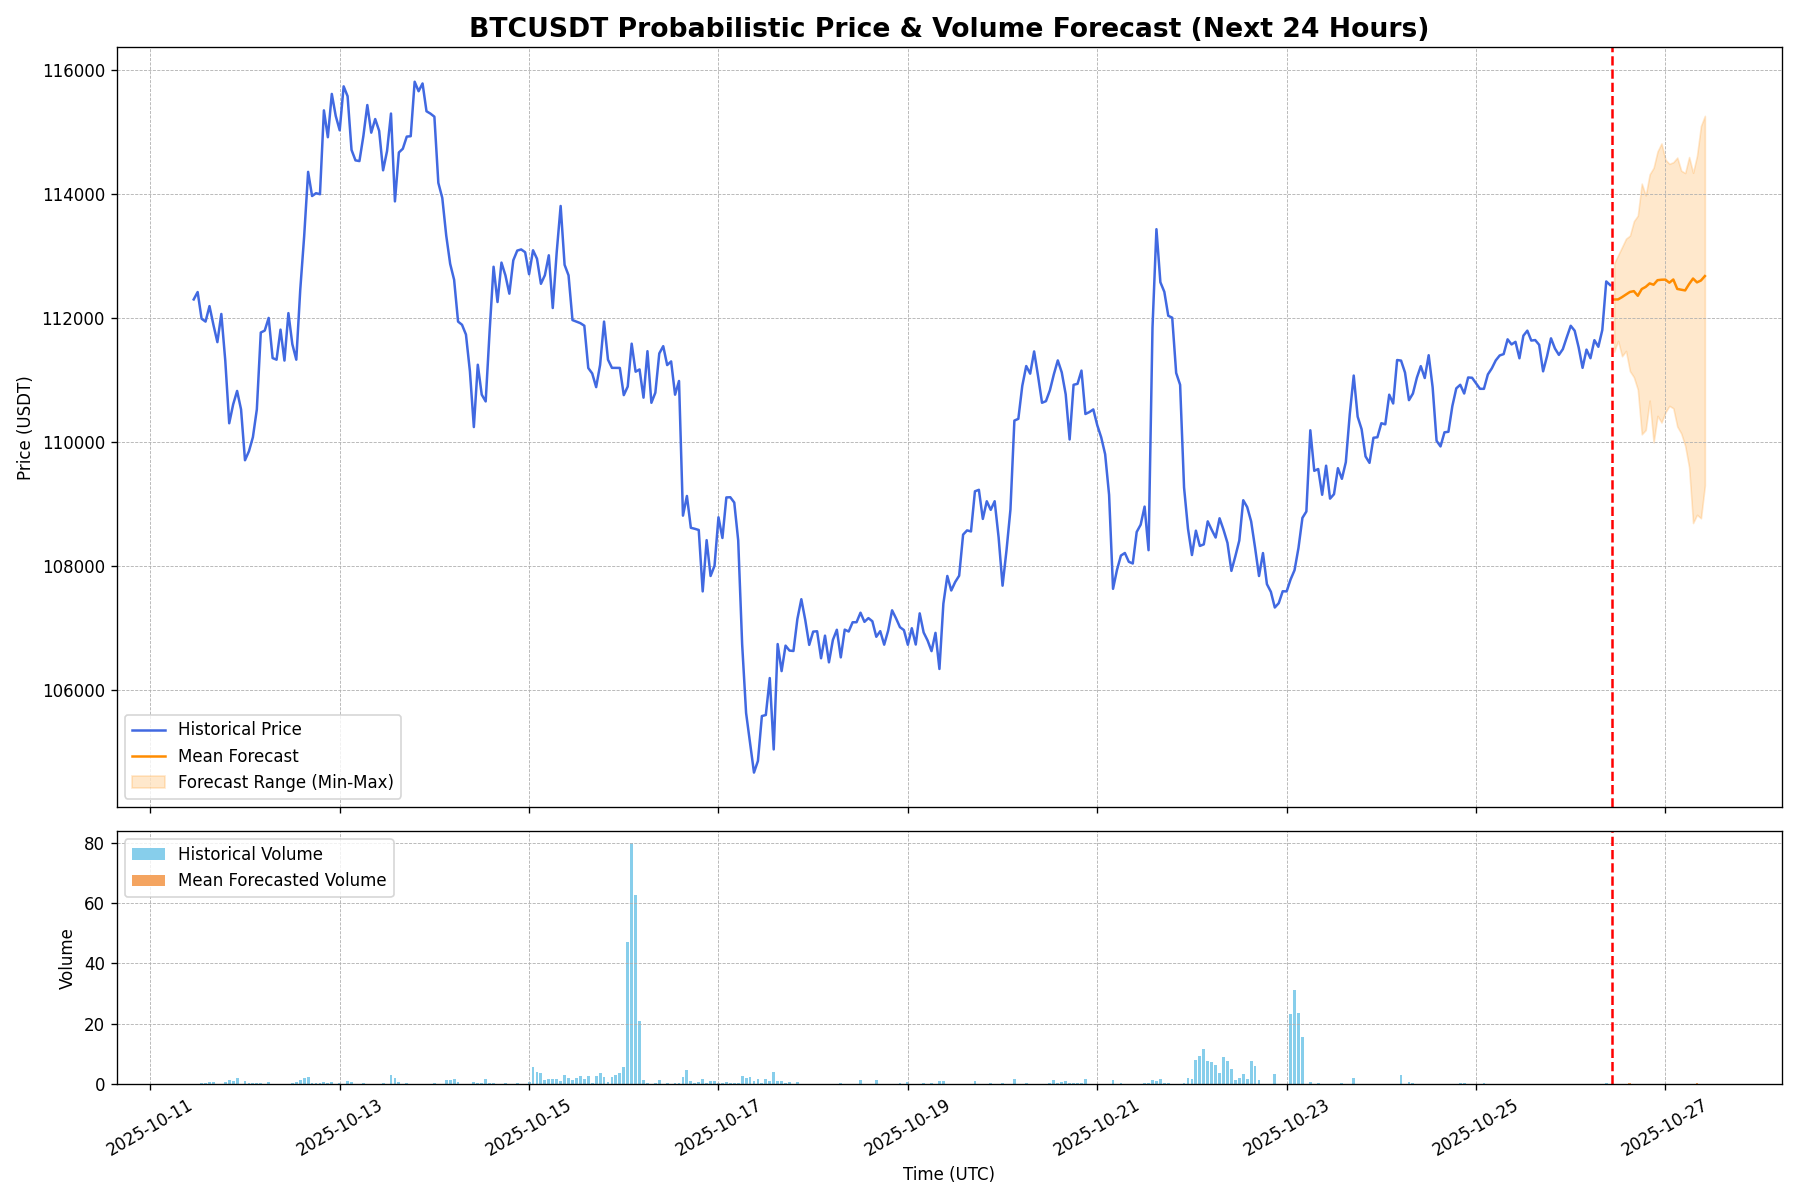
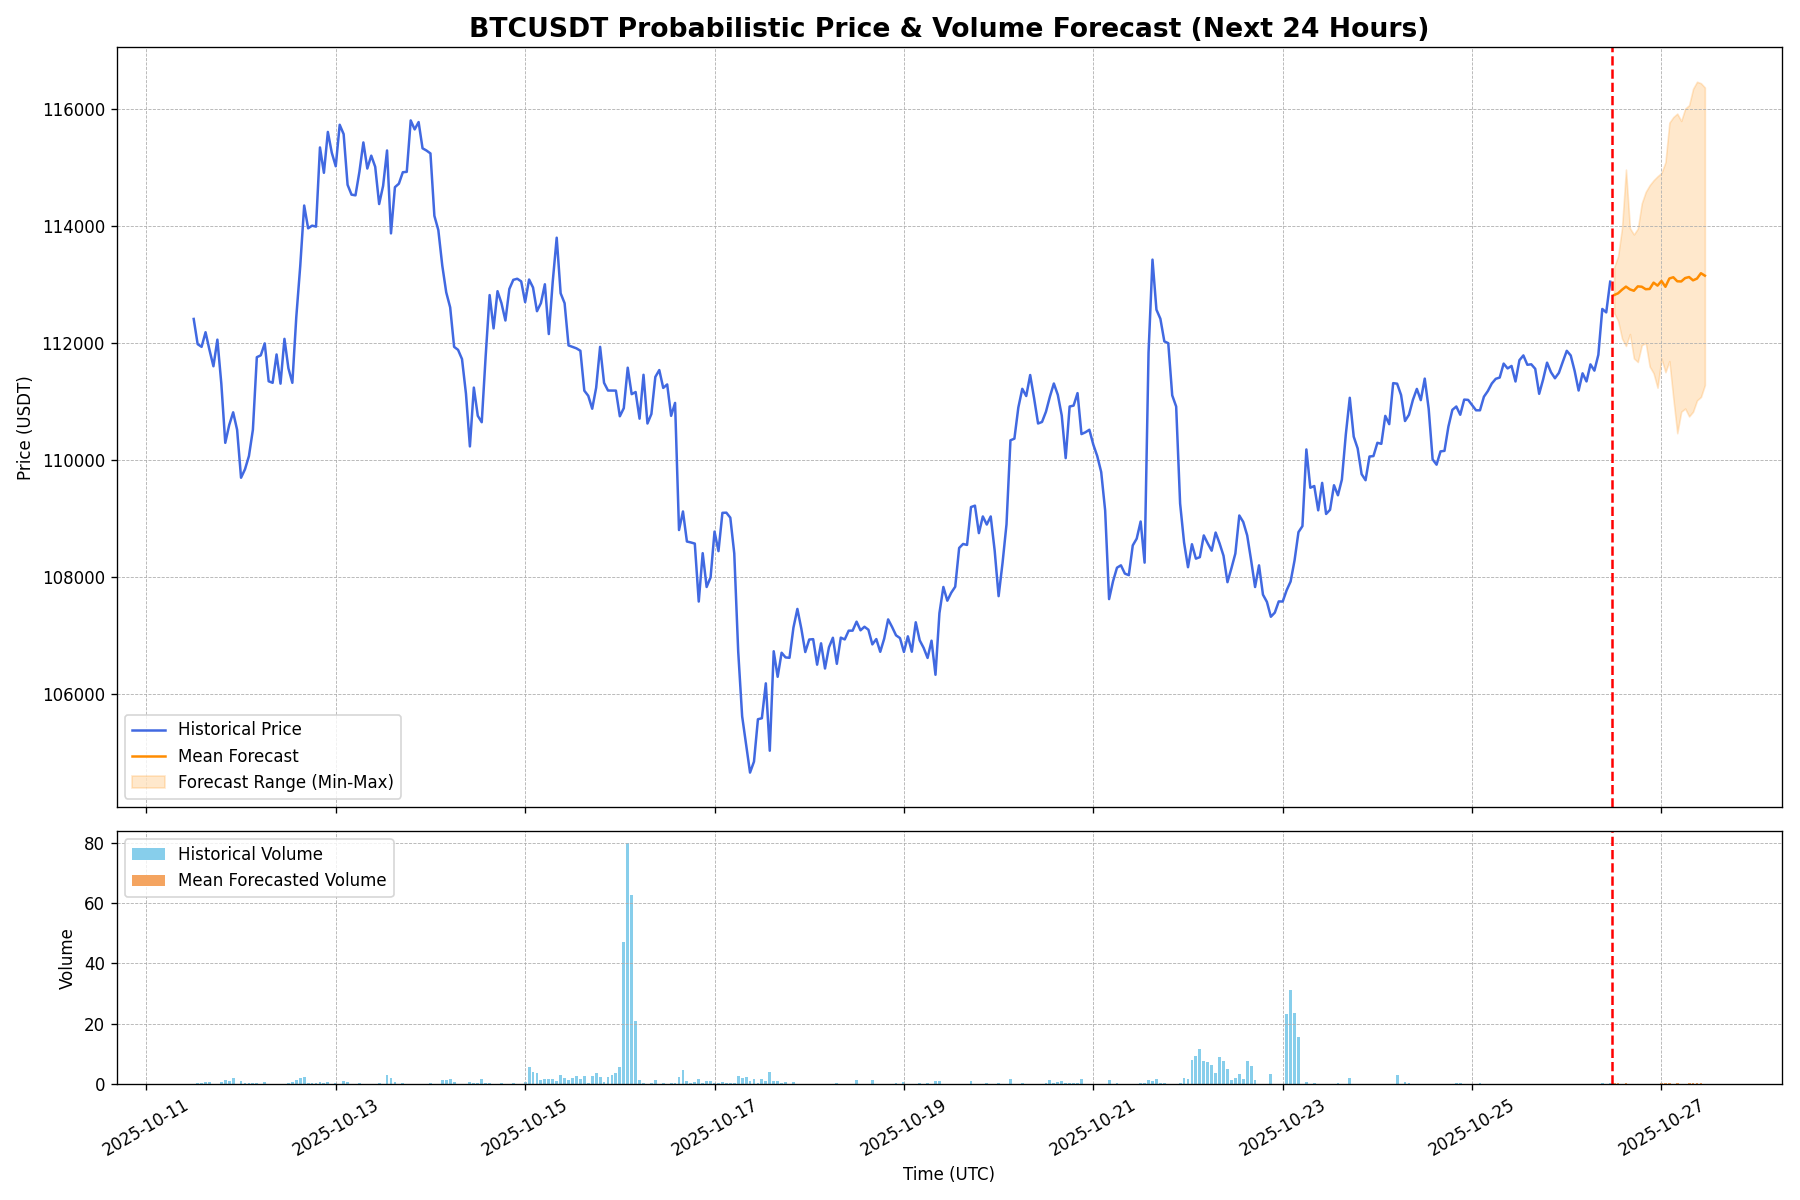
Auto-update forecast for 2025-10-26 12:09 UTC

diff --git a/index.html b/index.html
@@ -22,19 +22,19 @@
         <section id="live-dashboard">
             <h2>Live BTC/USDT Forecast Dashboard</h2>
             <div class="metadata">
-                <span>Last Updated (UTC): <strong id="update-time">2025-10-26 11:10:18</strong></span>
+                <span>Last Updated (UTC): <strong id="update-time">2025-10-26 12:09:43</strong></span>
                 <span>Data Source: Binance | Interval: 1-Hour</span>
             </div>
 
             <div class="metrics-container">
                 <div class="metric-card">
                     <h3>Upside Probability (Next 24h)</h3>
-                    <p class="metric-value" id="upside-prob">70.0%</p>
+                    <p class="metric-value" id="upside-prob">46.7%</p>
                     <div class="metric-desc">The model's confidence that the price in 24 hours will be higher than the last known price.</div>
                 </div>
                 <div class="metric-card">
                     <h3>Volatility Amplification (Next 24h)</h3>
-                    <p class="metric-value" id="vol-amp-prob">66.7%</p>
+                    <p class="metric-value" id="vol-amp-prob">60.0%</p>
                     <div class="metric-desc">The probability that predicted volatility over the next 24h will exceed recent historical volatility.</div>
                 </div>
             </div>
